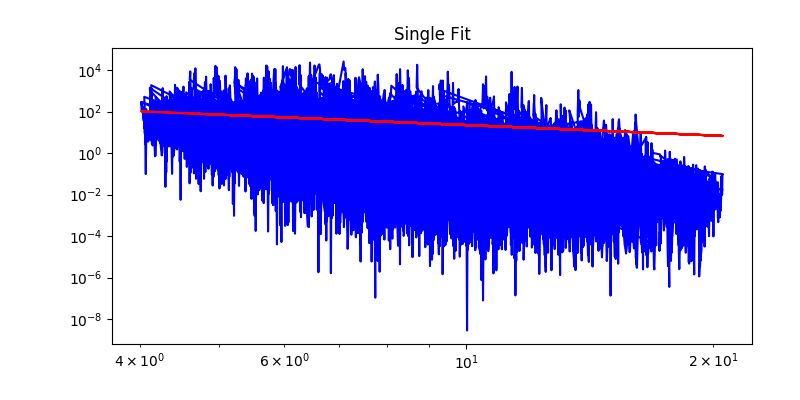
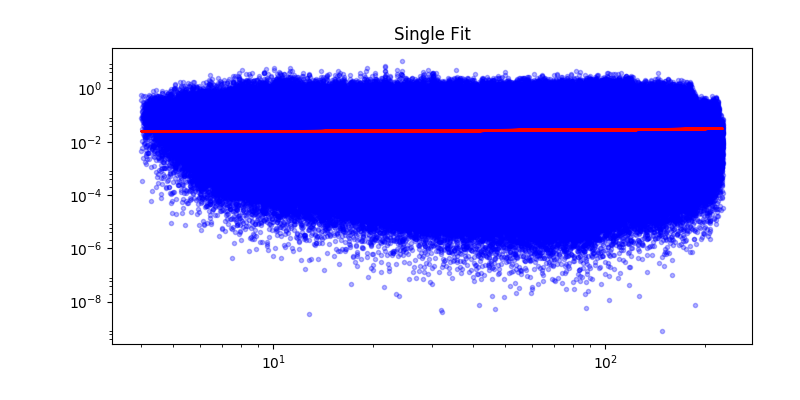
Adjusted shapes of variables and made a scatter plot

diff --git a/single_fit.py b/single_fit.py
@@ -6,6 +6,7 @@ import matplotlib.pyplot as plt
 import pandas as pd
 from os.path import isfile
 plt.ion()
+import pdb
 
 z = 10
 pii = 2 * np.pi
@@ -28,7 +29,7 @@ def def_vars(dat_bin, inds_t):
     """Defines the variables"""
     ustar = (dat_bin.upwp_ ** 2 + dat_bin.vpwp_ ** 2) ** .5
     u_star = ustar[inds_t]
-    u_star = u_star[None,:]
+    u_star = u_star[:,None]
     Uhor = (dat_bin.u ** 2 + dat_bin.v ** 2) ** .5
     U_hor = Uhor[inds_t]
     U_hor = U_hor[:, None]
@@ -37,17 +38,10 @@ def def_vars(dat_bin, inds_t):
 
 def def_x_y(dat_bin, z, u_star, U_hor, inds_t, inds_f):
     """Defines x and y and normalizes them"""
-    f = dat_bin.freq
-    f = f[inds_f][inds_t]
-    f = f[None,:]
-    y = dat_bin.Spec[0, inds_t] * pii
-    y_list = []
-    for i in range(len(y)):
-        y_list.append(y[i][inds_t])
-    Su = np.asarray(y_list)
-
+    f = dat_bin.freq[inds_f][None,:]
+    y = dat_bin.Spec[0, inds_t][..., inds_f] * pii
     f_norm = (f * z) / U_hor
-    Su_norm = (Su * U_hor) / (z * u_star)
+    Su_norm = (y * U_hor) / (z * u_star)
     return f_norm, Su_norm, f, y
 
 
@@ -58,7 +52,7 @@ def spectra_fit_plot(f_final, Su_final,  title, popt):
     ax = fig.add_axes([.14, .14, .8, .74])
 
     # plot our data
-    ax.loglog(f_final, Su_final, 'b-')
+    ax.loglog(f_final, Su_final, 'b.', alpha=0.3)
     ax.set_autoscale_on(False)  # Otherwise, infinite loop
 
     Su_theory = function(f_final, popt[0], popt[1])
@@ -70,8 +64,6 @@ fs = []
 Sus = []
 f_norms = []
 Su_norms = []
-u_stars = []
-U_hors = []
 for filename in FILENAMES:
     dat_bin = load_data(filename + '_binned')
     inds_t = abs(dat_bin.u**2 +dat_bin.v**2) > 0.5
@@ -86,31 +78,9 @@ for filename in FILENAMES:
         f_norms.append(item)
     for item in Su_norm:
         Su_norms.append(item)
-    for item in u_star:
-        u_stars.append(item)
-    for item in U_hor:
-        U_hors.append(item)
 
-f_flat = []
-Su_flat = []
-u_star_flat = []
-U_hor_flat = []
-for i in range(len(f_norms)):
-    for item in f_norms[i]:
-        f_flat.append(item)
-for i in range(len(Su_norms)):
-    for item in Su_norms[i]:
-        Su_flat.append(item)
-for i in range(len(u_stars)):
-    for item in u_stars[i]:
-        u_star_flat.append(item)
-for i in range(len(U_hors)):
-    for item in U_hors[i]:
-        U_hor_flat.append(item)
+f_final = np.hstack(f_norms)
+Su_final = np.hstack(Su_norms)
 
-Su_final = np.array(Su_flat)
-f_final = np.array(f_flat)
-# when joining large arrays, it takes a lot memory so use numpy.hstack/vstack to turn into array
-# flatten the data before giving it to the fit function
 popt, pcov = optimize.curve_fit(function, f_final, Su_final)
 spectra_fit_plot(f_final, Su_final, 'Single Fit', popt)
